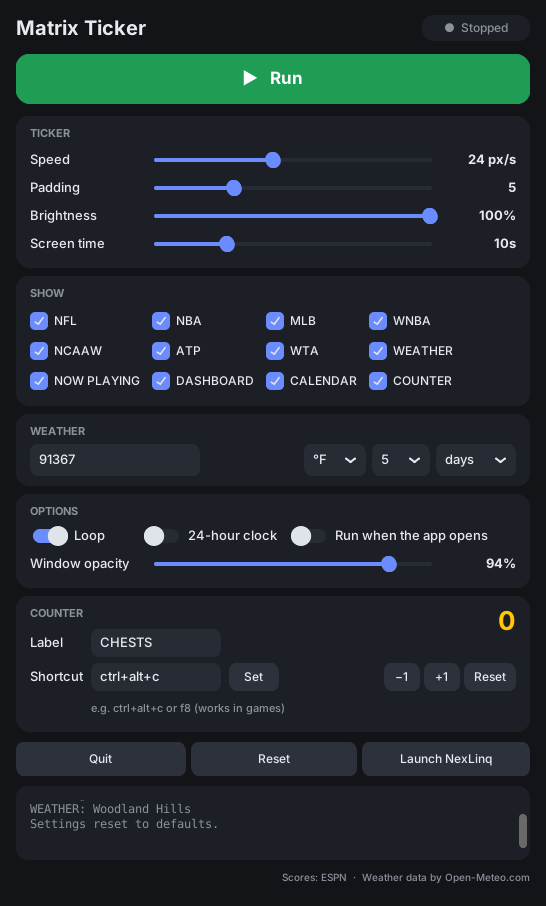
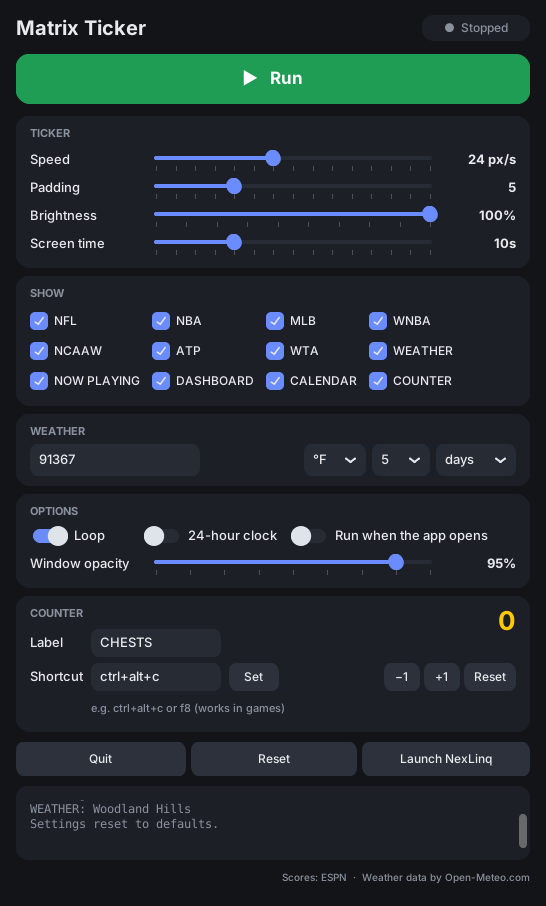
Minimal calendar, notched sliders, Restart button, MIT license
- Calendar: weekday + date in the 5x7 font, week bar underneath (today lit)
- Sliders snap to stops with tick marks (speed 3s, brightness 10s, screen time 2s, opacity 5s)
- While running, a Restart button appears when settings differ from the running ones
- Weather box shows a 'City or ZIP' hint when empty
- MIT license

Claude-Session: https://claude.ai/code/session_01H3njHNDUQi74XPcFKKmD5S

Changed region(s): [[0.2802, 0.1545, 0.8095, 0.2781], [0.2802, 0.5872, 0.7473, 0.649], [0.9029, 0.6181, 0.9341, 0.649]]

diff --git a/gui.py b/gui.py
@@ -7,6 +7,7 @@ Closing the window keeps it running in the system tray (needs pystray + Pillow).
 Settings are saved to config.json under "gui".
 """
 import ctypes
+import dataclasses
 import json
 import queue
 import sys
@@ -34,7 +35,7 @@ BUTTON, BUTTON_HI = "#2c313b", "#383e4a"
 GREEN, GREEN_HI, RED, RED_HI = "#1f9d55", "#25b864", "#c0392b", "#d9443a"
 GOLD = "#ffc800"
 FAMILY = "Segoe UI"
-DEFAULT_OPACITY = 94
+DEFAULT_OPACITY = 95
 
 ctk.set_appearance_mode("dark")
 
@@ -67,10 +68,10 @@ def font(size=13, weight="normal"):
 
 class App:
     SLIDERS = [  # attr, label, low, high, step, cast
-        ("speed", "Speed", 6, 48, 1, float),
+        ("speed", "Speed", 6, 48, 3, float),
         ("padding", "Padding", 1, 15, 1, int),
-        ("brightness", "Brightness", 10, 100, 5, int),
-        ("screen_seconds", "Screen time", 3, 30, 1, int),
+        ("brightness", "Brightness", 10, 100, 10, int),
+        ("screen_seconds", "Screen time", 2, 30, 2, int),
     ]
     UNITS = {"speed": " px/s", "padding": "", "brightness": "%", "screen_seconds": "s"}
     WMODES = {"days": "daily", "hours": "hourly"}
@@ -113,10 +114,16 @@ class App:
         self.status.pack(side="right")
 
         # big run/stop toggle
-        self.toggle = ctk.CTkButton(outer, text="▶   Run", command=self.toggle_run, height=50, corner_radius=14,
+        runrow = ctk.CTkFrame(outer, fg_color="transparent")
+        runrow.pack(fill="x", pady=(12, 4))
+        self.toggle = ctk.CTkButton(runrow, text="▶   Run", command=self.toggle_run, height=50, corner_radius=14,
                                     fg_color=GREEN, hover_color=GREEN_HI, text_color="white",
                                     font=font(17, "bold"))
-        self.toggle.pack(fill="x", pady=(12, 4))
+        self.toggle.pack(side="left", fill="x", expand=True)
+        self.restart_btn = ctk.CTkButton(runrow, text="↻   Restart", command=self.restart, height=50, width=170,
+                                         corner_radius=14, fg_color=ACCENT, hover_color=ACCENT_HI,
+                                         text_color="white", font=font(17, "bold"))
+        self._run_snapshot, self._restarting = None, False
 
         # sliders
         box = self._card(outer, "Ticker")
@@ -137,11 +144,15 @@ class App:
 
         # weather
         box_w = self._card(outer, "Weather")
-        self.location = tk.StringVar(value=self.settings.location)
-        self.location.trace_add("write", lambda *_: self._location_changed())
-        ctk.CTkEntry(box_w, textvariable=self.location, placeholder_text="City or ZIP, e.g. 91367",
-                     width=170, height=32, corner_radius=8, fg_color=FIELD, border_width=0, text_color=FG,
-                     font=font()).grid(row=1, column=0, sticky="w")
+        # no textvariable: customtkinter only shows the placeholder hint without one
+        self.location = ctk.CTkEntry(box_w, placeholder_text="City or ZIP, e.g. 91367", width=170, height=32,
+                                     corner_radius=8, fg_color=FIELD, border_width=0, text_color=FG,
+                                     placeholder_text_color=MUTED, font=font())
+        if self.settings.location:
+            self.location.insert(0, self.settings.location)
+        self.location.bind("<KeyRelease>", lambda e: self._location_changed())
+        self.location.bind("<FocusOut>", lambda e: self._location_changed())
+        self.location.grid(row=1, column=0, sticky="w")
         menus = ctk.CTkFrame(box_w, fg_color="transparent")
         menus.grid(row=1, column=1, sticky="e", padx=(10, 0))
         self.units = tk.StringVar(value="°" + self.settings.units)
@@ -166,7 +177,7 @@ class App:
                                ("Run when the app opens", self.autorun, self._schedule_save)):
             self._switch(sw, text, var, cmd).pack(side="left", padx=(0, 14))
         self.opacity = tk.IntVar(value=int(saved.get("opacity", DEFAULT_OPACITY)))
-        self._row_slider(box_o, 2, "Window opacity", self.opacity, 60, 100, 1, "%", self._opacity_changed)
+        self._row_slider(box_o, 2, "Window opacity", self.opacity, 60, 100, 5, "%", self._opacity_changed)
 
         # counter (only shown when COUNTER is ticked)
         self.counter_box = box3 = self._card(outer, "Counter", pack=False)
@@ -242,11 +253,15 @@ class App:
             value.configure(text=f"{v}{unit}")
             on_change(v)
 
-        slider = ctk.CTkSlider(parent, from_=lo, to=hi, number_of_steps=int(round((hi - lo) / step)),
-                               variable=var, command=changed, width=290, height=16,
+        steps = int(round((hi - lo) / step))
+        col = ctk.CTkFrame(parent, fg_color="transparent")
+        col.grid(row=row, column=1, columnspan=2, padx=8, pady=(4, 2))
+        slider = ctk.CTkSlider(col, from_=lo, to=hi, number_of_steps=steps,
+                               variable=var, command=changed, width=self.SLIDER_W, height=16,
                                fg_color=FIELD, progress_color=ACCENT, button_color=ACCENT,
                                button_hover_color=ACCENT_HI)
-        slider.grid(row=row, column=1, columnspan=2, padx=8, pady=4)
+        slider.pack()
+        self._notches(col, steps)
         value.grid(row=row, column=3, sticky="e")
 
         def wheel(e):
@@ -256,6 +271,19 @@ class App:
             w.bind("<MouseWheel>", wheel)
         value.configure(text=f"{var.get():g}{unit}")
         return changed
+
+    SLIDER_W = 290
+
+    def _notches(self, parent, steps):
+        """Tick marks under a slider, one per stop, so it's clear it snaps."""
+        scale = ctk.ScalingTracker.get_widget_scaling(parent)
+        w, h = round(self.SLIDER_W * scale), round(5 * scale)
+        cv = tk.Canvas(parent, width=w, height=h, bg=CARD, highlightthickness=0, bd=0)
+        cv.pack()
+        inset = 8 * scale                                  # the knob's centre never reaches the very ends
+        for i in range(steps + 1):
+            x = round(inset + (w - 2 * inset) * i / steps)
+            cv.create_line(x, 0, x, h, fill="#4a505c", width=max(1, round(scale)))
 
     def _slider(self, parent, row, attr, label, lo, hi, step, cast):
         var = tk.DoubleVar(value=getattr(self.settings, attr))
@@ -342,7 +370,7 @@ class App:
         self._schedule_save()
 
     def _location_changed(self):
-        self.settings.location = self.location.get()
+        self.settings.location = self.location.get().strip()
         self.settings.units = self.units.get().lstrip("°")
         self.settings.weather_mode = self.WMODES[self.wmode.get()]
         self.settings.weather_count = int(self.wcount.get() or 5)
@@ -415,7 +443,20 @@ class App:
             self.logbox.see("end")
             self.logbox.configure(state="disabled")
         running = self.thread is not None and self.thread.is_alive()
-        if running and self.stop_event.is_set():
+        changed = running and not self.stop_event.is_set() and self._snapshot() != self._run_snapshot
+        if changed != bool(self.restart_btn.winfo_manager()):
+            if changed:
+                self.restart_btn.pack(side="left", padx=(8, 0))
+            else:
+                self.restart_btn.pack_forget()
+        if not running and self._restarting:
+            self._restarting = False
+            self.toggle_run()
+            running = True
+        if running and self.stop_event.is_set() and self._restarting:
+            self._set_toggle("Restarting…", "#2d3f80", "#2d3f80")
+            self.status.configure(text="●  Restarting", text_color=ACCENT_HI)
+        elif running and self.stop_event.is_set():
             self._set_toggle("Stopping…", "#7a2a22", "#7a2a22")
             self.status.configure(text="●  Stopping", text_color="#d9a03a")
         elif running:
@@ -440,8 +481,19 @@ class App:
             self.log("Pick at least one thing to show.")
             return
         self.stop_event = threading.Event()
+        self._run_snapshot = self._snapshot()
         self.thread = threading.Thread(target=self._worker, daemon=True)
         self.thread.start()
+
+    def _snapshot(self):
+        """Settings as they are now, to tell whether a restart would change anything."""
+        return dataclasses.asdict(self.settings)
+
+    def restart(self):
+        """Stop, then start again with the current settings (the poll loop starts it)."""
+        if self.thread and self.thread.is_alive():
+            self._restarting = True
+            self.stop_event.set()
 
     def _worker(self):
         panel = None
@@ -461,7 +513,8 @@ class App:
             self.ticker = None
             if panel:
                 try:
-                    self.log(restore_layout(panel))
+                    if not self._restarting:          # about to start again: skip the flash of the old layout
+                        self.log(restore_layout(panel))
                 finally:
                     panel.close()
 

diff --git a/matrix/screens.py b/matrix/screens.py
@@ -8,6 +8,8 @@ WHITE, GRAY, DIM = (255, 255, 255), (110, 110, 110), (28, 30, 38)
 CYAN, GOLD, RED = (60, 210, 230), (255, 200, 0), (220, 35, 35)
 METER = [(70, 230, 220), (60, 190, 235), (60, 150, 245), (70, 110, 255), (95, 80, 255)]
 MONTHS = "JAN FEB MAR APR MAY JUN JUL AUG SEP OCT NOV DEC".split()
+WEEKDAYS = "MON TUE WED THU FRI SAT SUN".split()
+WEEK_DIM = (70, 70, 70)
 
 
 def _meter(c, x, y, w, h, frac):
@@ -47,28 +49,22 @@ def dashboard(now=None, h24=False):
 
 
 def calendar(today=None):
-    """A tear-off calendar page (month + day) and this week with today highlighted."""
+    """Minimal: weekday + date centered, and a thin week bar underneath (today lit).
+    Bright, solid colors only: dim grays and tiny 3x5 digits look muddy on the real LEDs."""
     today = today or dt.date.today()
     c = Canvas()
-    c.rect(0, 0, 20, 4, (150, 20, 20))                 # page header (deep red)
-    m = MONTHS[today.month - 1]
-    c.small(m, (21 - small_width(m)) // 2, 0, WHITE)
-    for yy in range(5, 10):                            # page outline under the header
-        c.set(0, yy, (90, 90, 90))
-        c.set(20, yy, (90, 90, 90))
-    d = str(today.day)
-    c.small(d, (21 - small_width(d)) // 2, 5, WHITE)
-    start = today - dt.timedelta(days=(today.weekday() + 1) % 7)   # week starts Sunday
+    wd = WEEKDAYS[today.weekday()]
+    date = f"{MONTHS[today.month - 1]} {today.day}"
+    w = normal_width(wd) + 5 + normal_width(date)
+    x = (W - w) // 2
+    x = c.normal(wd, x, 0, RED)
+    c.normal(date, x + 5, 0, WHITE)
+    sunday_index = (today.weekday() + 1) % 7            # week runs Sunday..Saturday
+    seg, gap = 10, 3
+    x0 = (W - (7 * seg + 6 * gap)) // 2
     for i in range(7):
-        day = start + dt.timedelta(days=i)
-        x0 = 24 + i * 9
-        weekend = i in (0, 6)
-        if day == today:
-            c.rect(x0 - 1, 5, x0 + 7, 9, RED)
-        c.small("SMTWTFS"[i], x0 + 2, 0, CYAN if day == today else (GRAY if weekend else (190, 190, 190)))
-        num = str(day.day)
-        color = WHITE if day == today else ((130, 130, 130) if weekend else (215, 215, 215))
-        c.small(num, x0 + (7 - small_width(num)) // 2, 5, color)
+        color = RED if i == sunday_index else WEEK_DIM
+        c.rect(x0 + i * (seg + gap), 9, x0 + i * (seg + gap) + seg - 1, 9, color)
     return c.to_bytes()
 
 

diff --git a/README.md b/README.md
@@ -21,7 +21,7 @@ Only games happening today show up.
 
 ![Dashboard](docs/images/dashboard.png)
 
-**Calendar:** today's page and this week.
+**Calendar:** the day and date, with this week underneath.
 
 ![Calendar](docs/images/calendar.png)
 
@@ -48,7 +48,8 @@ That's it. It can start with Windows and sits quietly by the clock.
 1. Open **Matrix Ticker** from the Start menu.
 2. Tick what you want to see.
 3. For weather, type your city or ZIP code.
-4. Press the big green **Run** button.
+4. Press the big green **Run** button. Change something while it runs and a **Restart** button
+   appears to apply it.
 
 Everything you change is saved. **Window opacity** (under Options) makes the window see-through. Closing the window keeps it running in the
 **system tray** (the little icons by the clock). Right-click that icon to stop it or quit.
@@ -78,5 +79,5 @@ press Run (if it's open). You don't need it installed. Use **Launch NexLinq** to
 
 ---
 
-Scores from ESPN. Weather by [Open-Meteo.com](https://open-meteo.com). Not affiliated with Phanteks.
+MIT licensed. Scores from ESPN. Weather by [Open-Meteo.com](https://open-meteo.com). Not affiliated with Phanteks.
 Developers: see [docs/DEVELOPMENT.md](docs/DEVELOPMENT.md) and [docs/PROTOCOL.md](docs/PROTOCOL.md).
